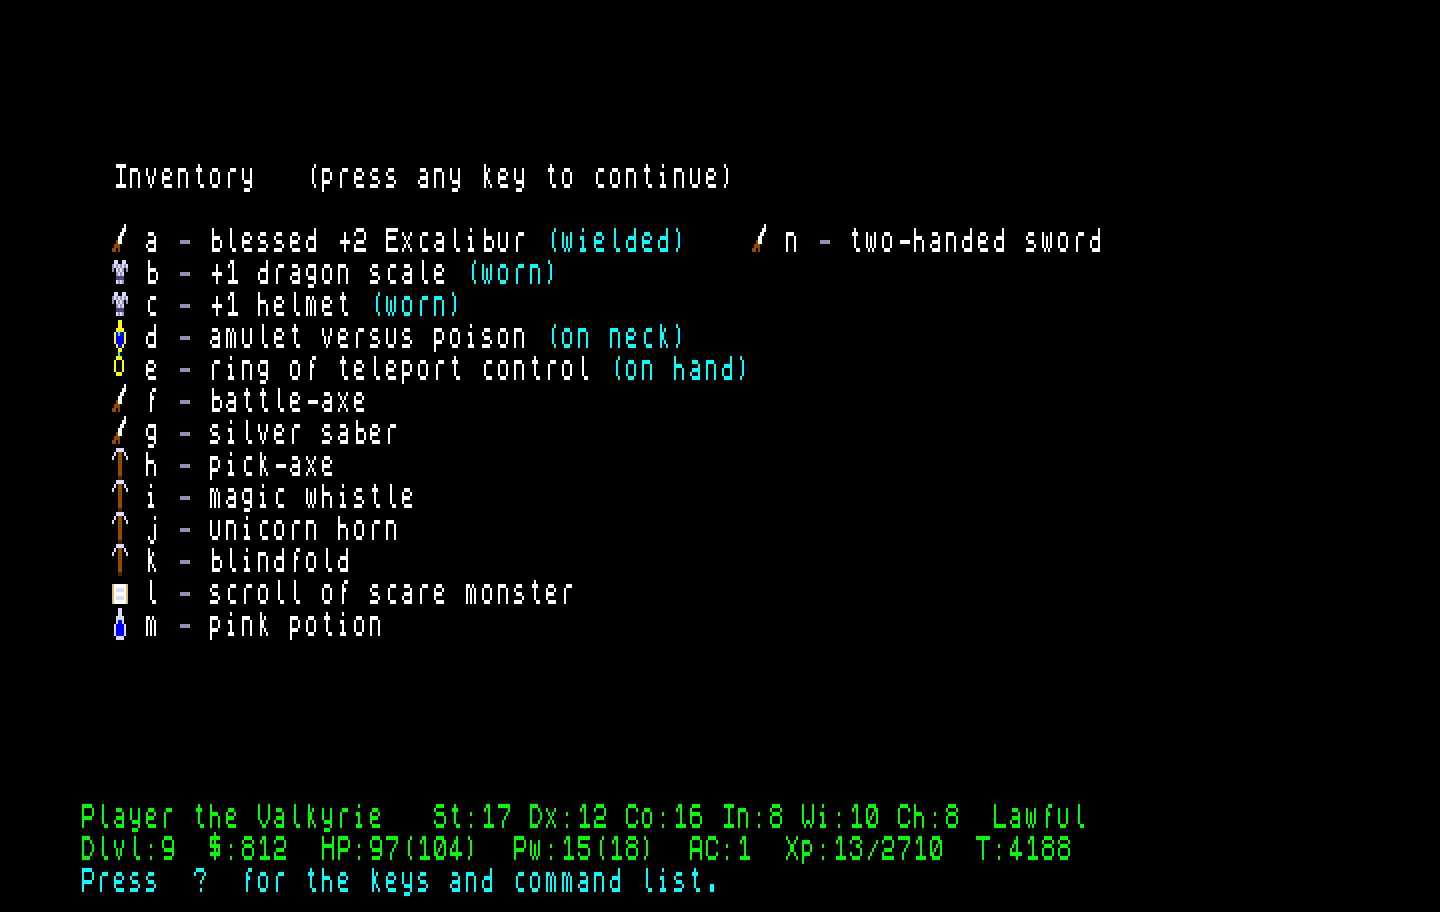
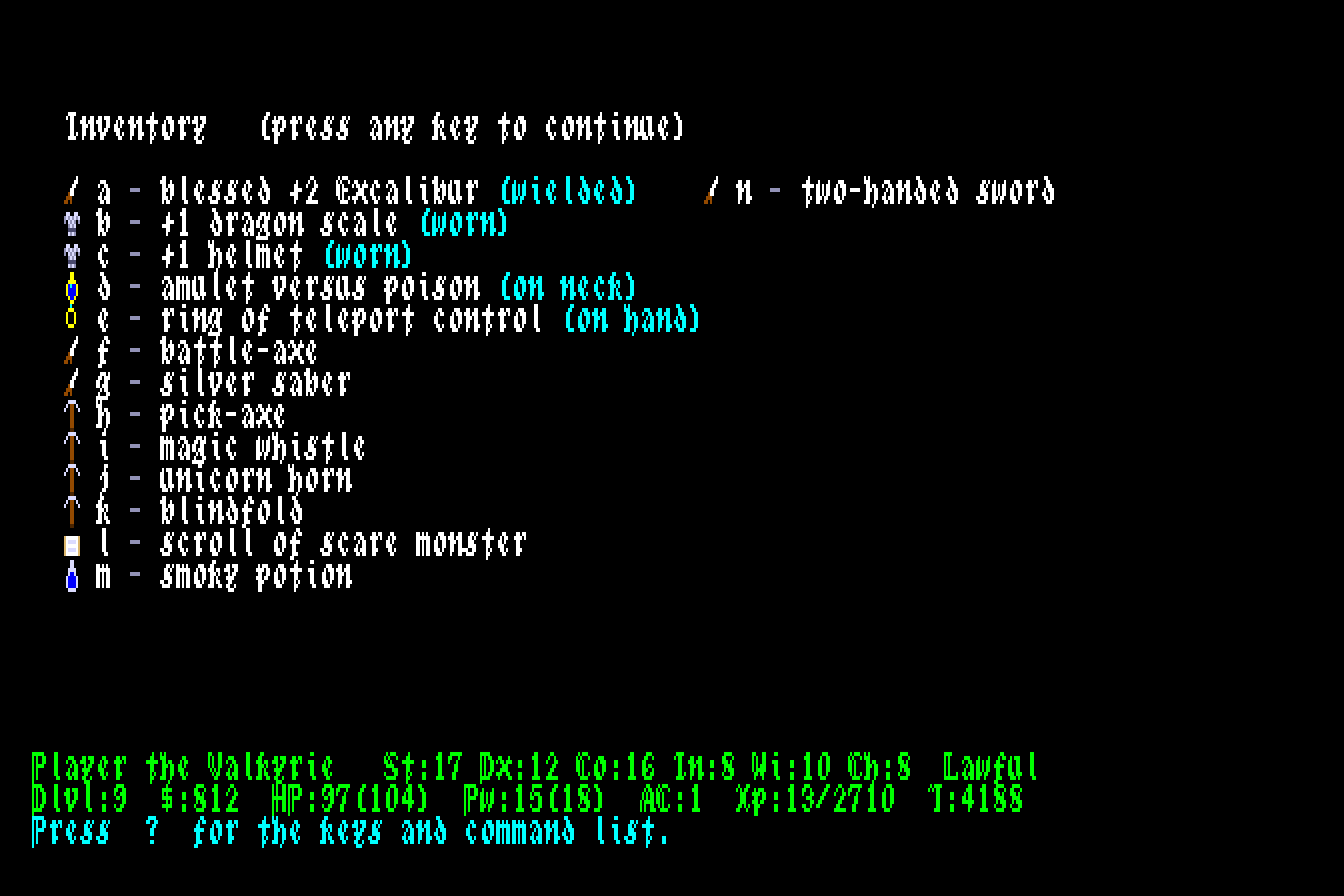
1.7.0: the README's screenshots in the new font
The four in-game screenshots retaken with the font, headless now: the
Next's from ZEsarUX's own screen (cropped 672x448, doubled), the 128K's
decoded from its screen memory (288x224, x4). The captions follow what
each one shows -- this world's unknown potion is smoky again, and the
128K shot has a fountain on blue where the last had a shop.

Release checks on the clean font builds (nexthack.nex 197120 B sha256
3e7703de..., nexthack128.tap 101903 B sha256 237ede4d...):
- ZEsarUX, both targets: twohsw, dig, tools, items, weapons, artifacts,
  classes, pal (Next), paper 13/13 (128K), doors 4/4, font 4/4 and 8/8 --
  all green; save compatibility with v1.6.2 7/7 on both (the 128K's first
  run met a keypress from outside -- see 8d605d7 -- and passed headless).
- MAME fuzz, seed 23, play + -Scan per target: 0 violations, 133 levels
  walk-checked; mame.lua reads "Welcome to NextHack!" on both, and the
  bare .nex's text is legible in MAME for the first time.
- CI's checks locally, txt2font included: all pass.

diff --git a/README.md b/README.md
@@ -163,7 +163,7 @@ RAM-expansion interface, which is how many people actually have 128 KB.
 
 ![NextHack gameplay: a magically mapped dungeon level drawn in colour 8×8 tiles — grey-brick rooms with arched wooden doors and the corridors between them, a shop with warm brick walls stocked with tools and weapons, and in a lit room the armoured hero beside a fresh breach in the wall, with the dog, a vampire in a purple cape, a nymph in a pink gown and an olive snake, and the full status bar below.](docs/gameplay.png)
 
-*Dlvl 5 after a scroll of magic mapping — rooms light up on entry, corridors reveal as you go, and the shop in the corner sells tools. The hero has just broken through the room's west wall with a pick-axe: the breach stays open, and the level remembers it on every later visit. 1.7 hangs a real door in every doorway — an arch, two planks and a brass ring — and lends the monsters a second palette: the vampire's purple cape, the nymph's pink gown, the olive snake. The status bar carries the whole character sheet, alignment included.*
+*Dlvl 5 after a scroll of magic mapping — rooms light up on entry, corridors reveal as you go, and the shop in the corner sells tools. The hero has just broken through the room's west wall with a pick-axe: the breach stays open, and the level remembers it on every later visit. 1.7 hangs a real door in every doorway — an arch, two planks and a brass ring — and lends the monsters a second palette: the vampire's purple cape, the nymph's pink gown, the olive snake. Every word is in the game's own gothic hand now, not the ROM's, and the status bar carries the whole character sheet, alignment included.*
 
 ![The Gnomish Mines: cobblestone chambers and winding tunnels revealed, Minetown's warm-brick shop stocked with wares, and in a lit chamber the hero with the dog, just whistled to heel, meeting a gnome and a dwarf, with the status bar reading Mine:2.](docs/mines.png)
 
@@ -293,7 +293,7 @@ it does not depend on esxDOS just to run.
 run-zx128.bat        REM dev convenience: boots nexthack128.tap in ZEsarUX (--machine 128k)
 ```
 
-![NextHack on the plain ZX Spectrum 128K: the ULA renderer with 1-bit tiles — a magically mapped level of white-on-blue brick walls and red doors in black arches, a yellow-on-red shop in the corner, and in a lit room the sword-bearing hero beside a fresh breach in the wall, with the dog, a vampire, a nymph and a snake, above the compact status line.](docs/zx128.png)
+![NextHack on the plain ZX Spectrum 128K: the ULA renderer with 1-bit tiles — a magically mapped level of white-on-blue brick walls and red doors in black arches, and in a lit room the sword-bearing hero beside a fresh breach in the wall, with the dog, a vampire, a nymph, a snake and a fountain, cyan on blue, above the compact status line.](docs/zx128.png)
 
 *The same game on a plain 128K: 1-bit tiles on the ULA, a 32-column viewport that
 edge-scrolls over the 80-wide map. 1.7 gives the walls a paper colour — white
@@ -342,9 +342,9 @@ used to emit one and no longer does.
 
 Walk into a monster to attack it; walk over gold to pick it up.
 
-![The NextHack inventory screen: a blessed +2 Excalibur (wielded), +1 dragon scale and +1 helmet (worn), the amulet versus poison on the neck and a ring of teleport control on the hand — then a battle-axe, a silver saber, a pick-axe, a magic whistle, a unicorn horn, a blindfold, a scroll of scare monster, a pink potion still known only by its look and a two-handed sword.](docs/inventory.png)
+![The NextHack inventory screen: a blessed +2 Excalibur (wielded), +1 dragon scale and +1 helmet (worn), the amulet versus poison on the neck and a ring of teleport control on the hand — then a battle-axe, a silver saber, a pick-axe, a magic whistle, a unicorn horn, a blindfold, a scroll of scare monster, a smoky potion still known only by its look and a two-handed sword.](docs/inventory.png)
 
-*The inventory screen (`i`): the weapons past the long sword — the two-handed battle-axe, the silver saber and 1.7's two-handed sword — four of the tools `a` applies, an amulet versus poison and a scroll of scare monster, beside an armour set worn a piece at a time, enchantment, blessed/cursed state and everything in use flagged. A potion you have not learned yet shows only this game's look: that pink one is a full healing, and nothing yet says so.*
+*The inventory screen (`i`): the weapons past the long sword — the two-handed battle-axe, the silver saber and 1.7's two-handed sword — four of the tools `a` applies, an amulet versus poison and a scroll of scare monster, beside an armour set worn a piece at a time, enchantment, blessed/cursed state and everything in use flagged. A potion you have not learned yet shows only this game's look: that smoky one is a full healing, and nothing yet says so.*
 
 ## Map & item tiles
 
